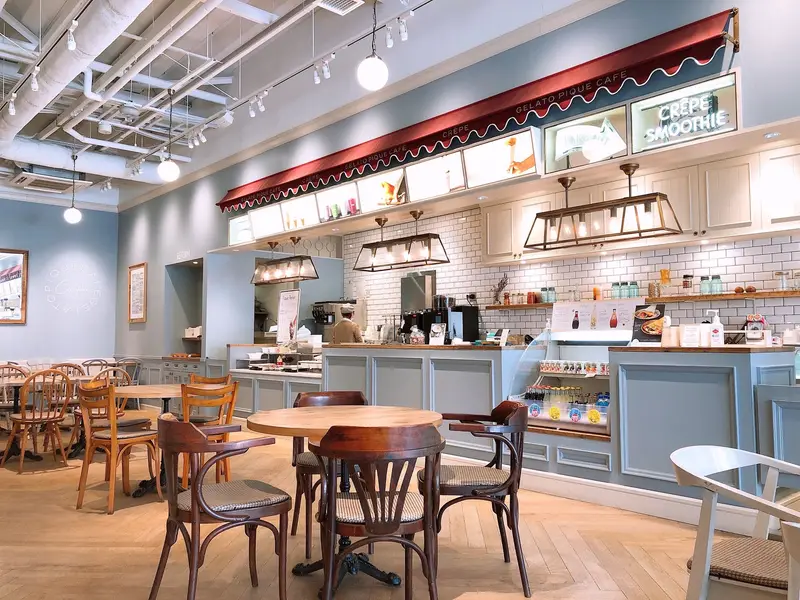
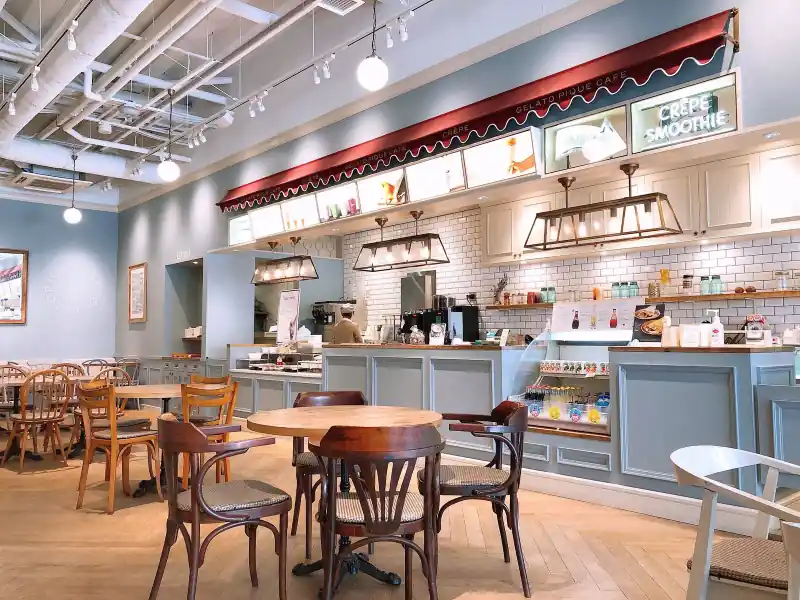
365posmall 이미지 경량화: 화면 표시용 WebP 800/400px(50KB 안팎), og:image 만 PNG 1200×630
- 썸네일 49종·홈 사진 5종을 800·400px WebP 로 새로 만들고 srcset·preload 교체
- 1200·1600·1400·700·600px WebP 삭제(화면에서 안 씀)
- 첫 화면 이미지 1개만 fetchpriority=high, 나머지 lazy, 전부 width/height 지정(기존 유지)

diff --git a/365posmall_worker.js b/365posmall_worker.js
@@ -259,13 +259,14 @@ const DATA_SRC     = "소상공인시장진흥공단 상가(상권)정보";
 const DATA_URL     = "https://www.data.go.kr/data/15083033/fileData.do";
 
 /* 사진은 public/img 에서 Workers 정적 자산으로 같은 도메인에서 나간다(WebP·크기 고정).
+   화면 표시용은 800px 이하 WebP(50KB 안팎)만 쓴다. og:image 만 public/og/*.png 1200×630. (2026-10-01)
    홈 배경 사진만 여기서 쓰고, 페이지별 대표 이미지는 public/og 에 있다. */
 const IMG = {
-  "home-hero":        {w:1600,h:1200, s:[800,1600]},
-  "home-region":      {w:1400,h:935,  s:[700,1400]},
-  "home-quote":       {w:1400,h:933,  s:[700,1400]},
-  "home-sido":        {w:1400,h:933,  s:[700,1400]},
-  "home-close":       {w:1400,h:933,  s:[700,1400]}
+  "home-hero":        {w:800,h:600, s:[400,800]},
+  "home-region":      {w:800,h:534, s:[400,800]},
+  "home-quote":       {w:800,h:533, s:[400,800]},
+  "home-sido":        {w:800,h:533, s:[400,800]},
+  "home-close":       {w:800,h:533, s:[400,800]}
 };
 function imgUrl(name,w){ return "/img/"+name+"-"+w+".webp"; }
 function imgTag(name, alt, opt){
@@ -983,9 +984,9 @@ function eqCards(cards){
       "<dl>"+c.rows.map(function(r){ return "<dt>"+r[0]+"</dt><dd>"+esc(r[1])+"</dd>"; }).join("")+"</dl></div>"; }).join("")+"</div>";
 }
 function thumbFig(key, alt){
-  return "<figure class=thumb><img src=\"/og/"+key+"-1200.webp\" srcset=\"/og/"+key+"-600.webp 600w, /og/"+key+"-1200.webp 1200w\" sizes=\"(max-width:768px) 100vw, 720px\" width=\"1200\" height=\"630\" alt=\""+esc(alt)+"\" fetchpriority=\"high\" decoding=\"async\"></figure>";
+  return "<figure class=thumb><img src=\"/og/"+key+"-800.webp\" srcset=\"/og/"+key+"-400.webp 400w, /og/"+key+"-800.webp 800w\" sizes=\"(max-width:768px) 100vw, 720px\" width=\"800\" height=\"420\" alt=\""+esc(alt)+"\" fetchpriority=\"high\" decoding=\"async\"></figure>";
 }
-function thumbPreload(key){ return {href:"/og/"+key+"-1200.webp", srcset:"/og/"+key+"-600.webp 600w, /og/"+key+"-1200.webp 1200w", sizes:"(max-width:768px) 100vw, 720px"}; }
+function thumbPreload(key){ return {href:"/og/"+key+"-800.webp", srcset:"/og/"+key+"-400.webp 400w, /og/"+key+"-800.webp 800w", sizes:"(max-width:768px) 100vw, 720px"}; }
 function ogPng(key){ return SITE+"/og/"+key+".png"; }
 
 const COST_TBL = {
@@ -2256,7 +2257,7 @@ function homePage(){
    "</div></div></div>"+
    "</div>";
   return shell({title:BRAND+" — 업종별 포스기·카드단말기·토스단말기 설치 안내", desc:"음식점·카페·편의점·미용실·학원·병의원 등 12개 업종별 포스기·카드단말기 설치 안내. 업종 계산대 동선에 맞는 장비 구성, 비용 요인, 설치 절차를 정리했습니다.", url:SITE+"/",
-    preload:{href:imgUrl("home-hero",1600), srcset:hero.s.map(function(w){ return imgUrl("home-hero",w)+" "+w+"w"; }).join(", "), sizes:"100vw"},
+    preload:{href:imgUrl("home-hero",800), srcset:hero.s.map(function(w){ return imgUrl("home-hero",w)+" "+w+"w"; }).join(", "), sizes:"100vw"},
     image:ogPng("home"), imageAlt:BRAND+" — 업종별 포스기·카드단말기 설치 안내",
     jsonld:[orgLd(), {"@context":"https://schema.org","@type":"WebSite","@id":SITE+"/#website","name":BRAND,"url":SITE+"/","inLanguage":"ko-KR","publisher":orgRef()},
       {"@context":"https://schema.org","@type":"ItemList","name":BRAND+" 업종별 안내","numberOfItems":BIZ.length,
